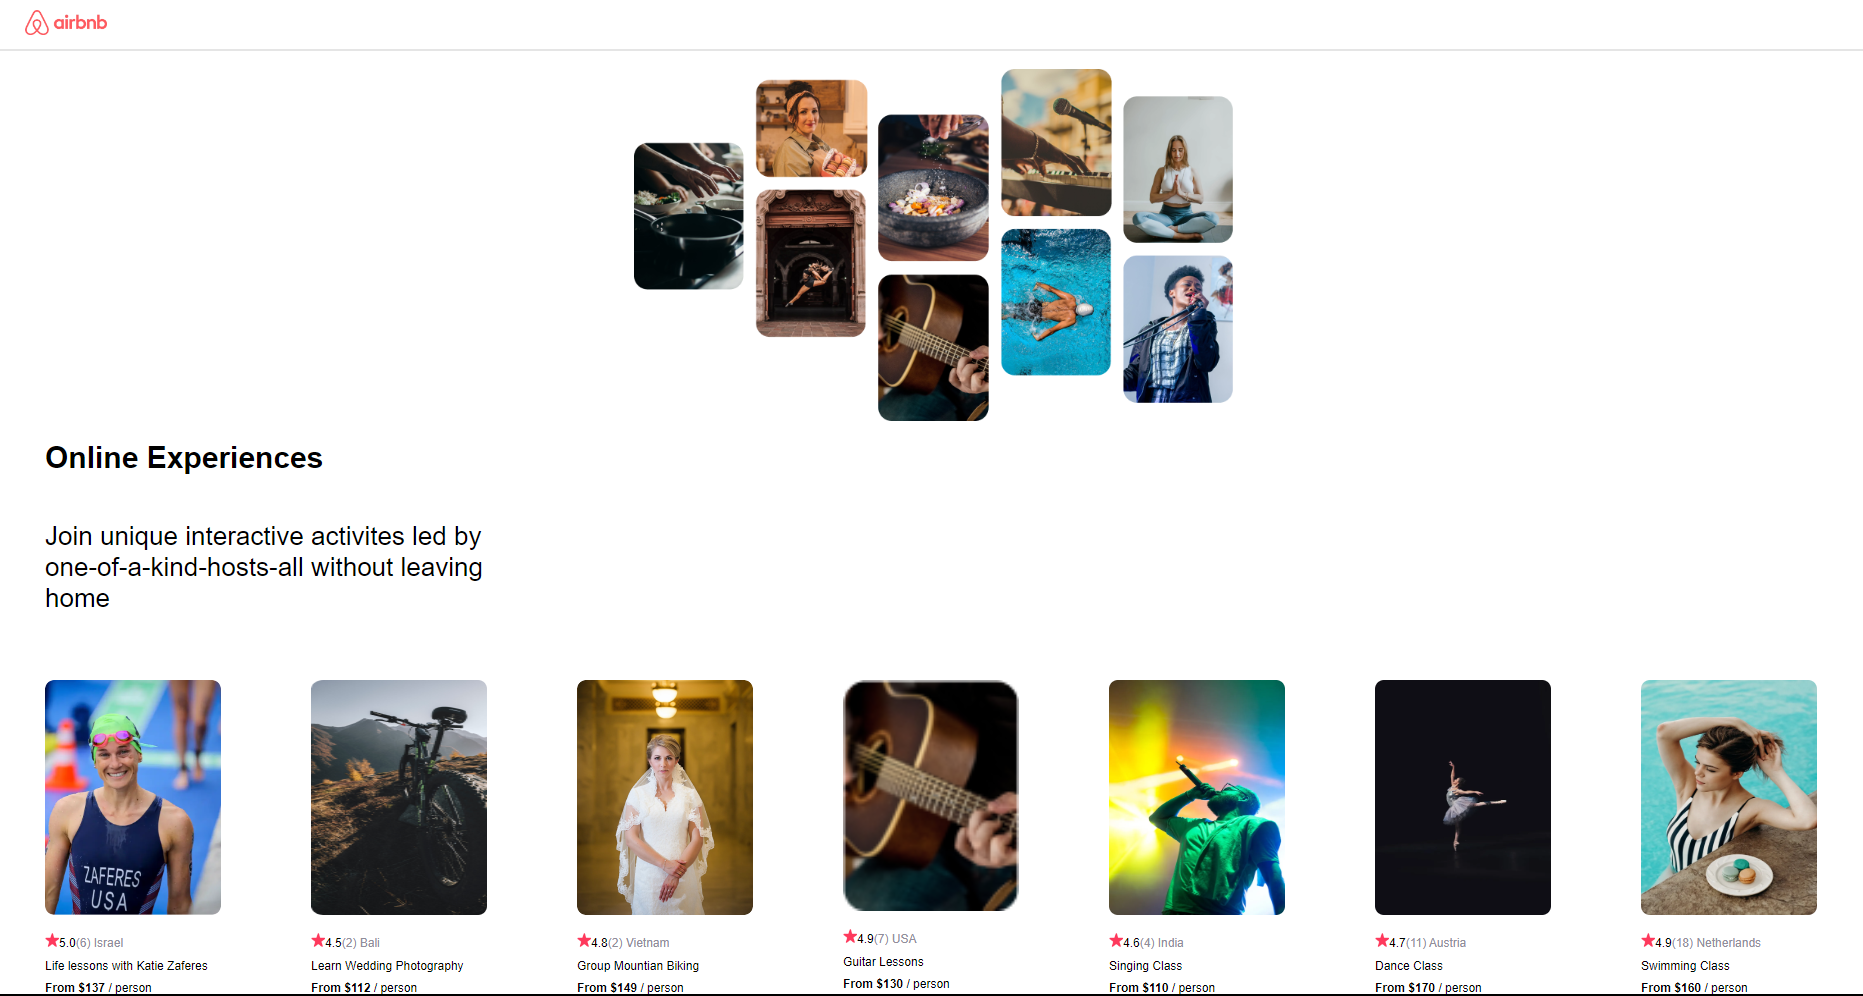
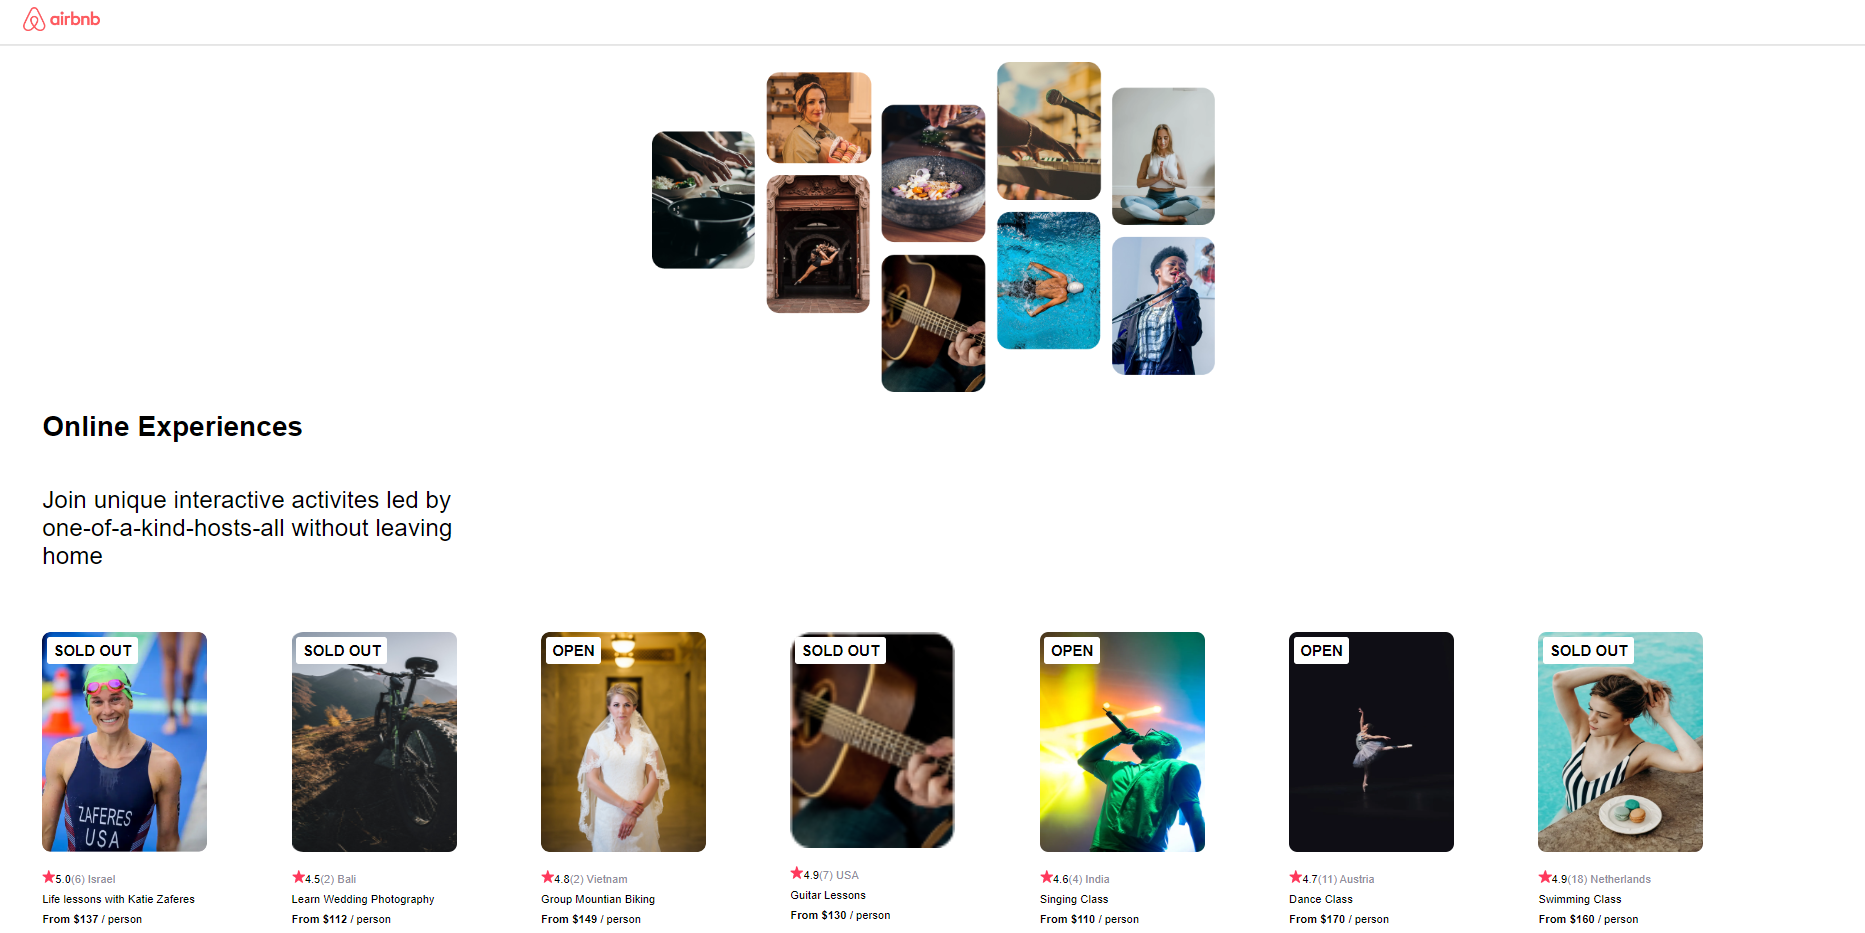
fifth commit

diff --git a/src/data.js b/src/data.js
@@ -6,6 +6,7 @@ export default [
         reviews:6,
         price:'137',
         country:"Israel",
+        openSpots: 0,
     },
     {
         img: 'https://github.com/Kushaalrajiv/AirBNB_ReactJS/blob/master/src/images/mountain.png?raw=true',
@@ -13,7 +14,8 @@ export default [
         lesson:"Learn Wedding Photography",
         reviews:2,
         price:'112',
-        country:"Bali"
+        country:"Bali",
+        openSpots: 0,
     },
     {
         img:'https://github.com/Kushaalrajiv/AirBNB_ReactJS/blob/master/src/images/wedding.png?raw=true',
@@ -22,6 +24,7 @@ export default [
         reviews:2,
         price:'149',
         country:"Vietnam",
+        openSpots: 8,
     },
     {
         img: 'https://github.com/Kushaalrajiv/AirBNB_ReactJS/blob/master/src/images/guitar.png?raw=true',
@@ -29,7 +32,8 @@ export default [
         lesson:"Guitar Lessons",
         reviews:7,
         price:'130',
-        country:"USA"
+        country:"USA",
+        openSpots: 0,
     },
     {
         img: 'https://github.com/Kushaalrajiv/AirBNB_ReactJS/blob/master/src/images/sing.png?raw=true',
@@ -37,7 +41,8 @@ export default [
         lesson:"Singing Class",
         reviews:4,
         price:'110',
-        country:"India"
+        country:"India",
+        openSpots: 3,
     },
     {
         img: 'https://github.com/Kushaalrajiv/AirBNB_ReactJS/blob/master/src/images/dance.png?raw=true',
@@ -45,7 +50,8 @@ export default [
         lesson:"Dance Class",
         reviews:11,
         price:'170',
-        country:"Austria"
+        country:"Austria",
+        openSpots: 5,
     },
     {
         img:'https://github.com/Kushaalrajiv/AirBNB_ReactJS/blob/master/src/images/swim.png?raw=true',
@@ -53,6 +59,7 @@ export default [
         lesson:"Swimming Class",
         reviews:18,
         price:'160',
-        country:"Netherlands"
+        country:"Netherlands",
+        openSpots: 0,
     }
 ]

diff --git a/src/components/Cards.js b/src/components/Cards.js
@@ -1,12 +1,18 @@
 import React from "react";
 import Star1 from "../Star1.png";
 
-
+let text
 export default function Cards(props) {
+    if(props.spots==0){
+        text="SOLD OUT"
+    }
+    else{
+        text="OPEN"
+    }
     return(
         <div className="container">
-            
-            <img src={props.img} width="176px" height="235px" className="image"/>
+            <div className="avail">{text}</div>
+            <img src={props.img} width="176px" height="235px" className="image" alt="error"/>
             
             <div className="info">
             <img src={Star1} width="14px" height="14px"/>

diff --git a/src/App.css b/src/App.css
@@ -38,10 +38,12 @@ font-weight: 300;
   
   padding:20px 45px;
   display:flex;
+  flex:0 0 auto;
   flex-direction: column;
   width: 176px;
-height: 135px;
+height: 235px;
 row-gap: 8px;
+position: relative;
 
 }
 
@@ -60,4 +62,14 @@ span{
 
 .image{
   border-radius: 9px;
+}
+
+.avail{
+  position:absolute;
+  top:26px;
+  left:50px;
+  background-color: white;
+  padding: 5px 7px;
+  border-radius: 3px;
+  font-weight: bold;
 }
